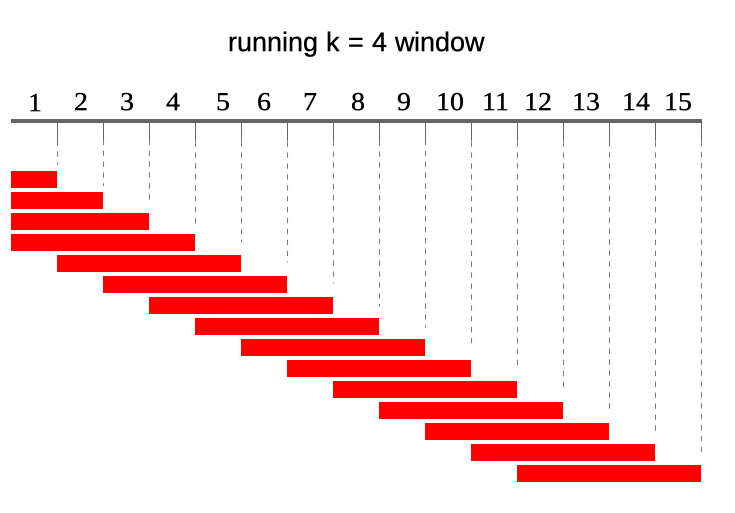
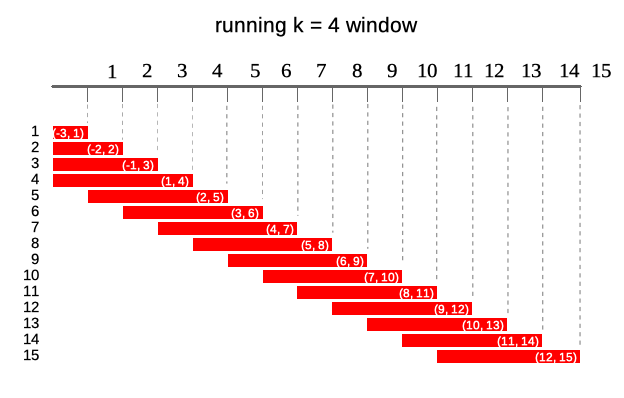
Deploy gogonzo/runner to github.com/gogonzo/runner.git:gh-pages

Changed region(s): [[0.0, 0.3015, 0.9744, 0.9648], [0.0, 0.1508, 0.9744, 0.3015], [0.3045, 0.0302, 0.6699, 0.1206]]

diff --git a/index.html b/index.html
@@ -33,7 +33,7 @@
       </button>
       <span class="navbar-brand">
         <a class="navbar-link" href="index.html">runner</a>
-        <span class="version label label-default" data-toggle="tooltip" data-placement="bottom" title="Released version">0.2.9000</span>
+        <span class="version label label-default" data-toggle="tooltip" data-placement="bottom" title="Released version">0.2.3</span>
       </span>
     </div>
 
@@ -83,15 +83,15 @@
       </header><div class="row">
   <div class="contents col-md-9">
 
-<div id="runner-a-r-package-for-running-operations-" class="section level1">
+<div id="runner-an-r-package-for-running-operations-" class="section level1">
 <div class="page-header"><h1 class="hasAnchor">
-<a href="#runner-a-r-package-for-running-operations-" class="anchor"></a><code>runner</code> a R package for running operations.</h1></div>
+<a href="#runner-an-r-package-for-running-operations-" class="anchor"></a><code>runner</code> an R package for running operations.</h1></div>
 </div>
 <div id="section" class="section level1">
 <h1 class="hasAnchor">
 <a href="#section" class="anchor"></a><img src="reference/figures/hexlogo.png" align="right">
 </h1>
-<p><a href="https://CRAN.R-project.org/package=runner"><img src="https://cranlogs.r-pkg.org/badges/runner" alt="Cran badge"></a> <a href="https://travis-ci.org/gogonzo/runner"><img src="https://travis-ci.org/gogonzo/runner.svg?branch=master" alt="Travis-CI Build Status"></a> <a href="https://ci.appveyor.com/project/gogonzo/runner"><img src="https://ci.appveyor.com/api/projects/status/github/gogonzo/runner?branch=master&amp;svg=true" alt="AppVeyor Build Status"></a> <img src="https://codecov.io/gh/gogonzo/runner/branch/master/graph/badge.svg" alt="Coverage status"></p>
+
 <div id="about" class="section level2">
 <h2 class="hasAnchor">
 <a href="#about" class="anchor"></a>About</h2>
@@ -107,7 +107,7 @@
 <div id="using-runner" class="section level2">
 <h2 class="hasAnchor">
 <a href="#using-runner" class="anchor"></a>Using runner</h2>
-<p><code>runner</code> package provides functions applied on running windows. Diagram below illustrates what running windows are - in this case running <code>k = 4</code> windows. For each of 15 elements of a vector each window contains current 4 elements (exception are first k - 1 elements where window is not complete).</p>
+<p><code>runner</code> package provides functions applied on running windows. Diagram below illustrates what running windows are - in this case running <code>k = 4</code> windows. For each of 15 elements of a vector each window contains current 4 elements.</p>
 <p><img src="reference/figures/running_windows_explain.png"></p>
 <p>Using <code>runner</code> one can apply any R function <code>f</code> in running window of length defined by <code>k</code>, window <code>lag</code>, observation indexes <code>idx</code>.</p>
 <p><img src="reference/figures/using_runner.png"></p>
@@ -126,8 +126,13 @@
 <div id="windows-depending-on-date" class="section level3">
 <h3 class="hasAnchor">
 <a href="#windows-depending-on-date" class="anchor"></a>Windows depending on date</h3>
-<p>Sometimes data points in dataset are not equally spaced (missing weeekends, holidays, other missings) and thus window size should vary to keep expected time frame. If one specifies <code>idx</code> argument, than running functions are applied on windows depending on date. <code>idx</code> should be the same length as <code>x</code> of class <code>Date</code> or <code>integer</code>. Including <code>idx</code> can be combined with varying window size, than k will denote number of periods in window different for each data point. Example below illustrates window of size <code>k = 4</code> lagged by <code>lag = 2</code> periods for 10’th element of vector <code>x</code>. This (10th) element has <code>idx = 13</code> which means that window ranges <code>[8, 11]</code> - although <code>k = 4</code> only two elements of <code>x</code> are within this window.</p>
-<p><img src="reference/figures/custom_idx_k_lag.png"></p>
+<p>Sometimes data points in dataset are not equally spaced (missing weeekends, holidays, other missings) and thus window size should vary to keep expected time frame. If one specifies <code>idx</code> argument, than running functions are applied on windows depending on date. <code>idx</code> should be the same length as <code>x</code> of class <code>Date</code> or <code>integer</code>. Including <code>idx</code> can be combined with varying window size, than k will denote number of periods in window different for each data point. Example below illustrates window of size <code>k = 5</code> lagged by <code>lag = 2</code>. In parentheses ranges for each window.</p>
+<p><img src="reference/figures/running_date_windows_explain.png"></p>
+</div>
+<div id="na-padding" class="section level3">
+<h3 class="hasAnchor">
+<a href="#na-padding" class="anchor"></a><code>NA</code> padding</h3>
+<p>Using <code>runner</code> one can also specify <code>na_pad = TRUE</code> which would return <code>NA</code> for any window which is partialy out of range - meaning that there is no sufficient number of observations to fill the window. By default <code>na_pad = FALSE</code>, which means that incomplete windows are calculated anyway. <code>na_pad</code> is applied on normal cumulative windows and on windows depending on date.</p>
 </div>
 <div id="build-in-functions" class="section level3">
 <h3 class="hasAnchor">
@@ -149,10 +154,10 @@
 <a class="sourceLine" id="cb2-2" data-line-number="2">x &lt;-<span class="st"> </span><span class="kw"><a href="https://rdrr.io/r/stats/Normal.html">rnorm</a></span>(<span class="dv">20</span>)</a>
 <a class="sourceLine" id="cb2-3" data-line-number="3">date &lt;-<span class="st"> </span><span class="kw"><a href="https://rdrr.io/r/base/seq.Date.html">seq.Date</a></span>(<span class="kw"><a href="https://rdrr.io/r/base/Sys.time.html">Sys.Date</a></span>(), <span class="kw"><a href="https://rdrr.io/r/base/Sys.time.html">Sys.Date</a></span>() <span class="op">+</span><span class="st"> </span><span class="dv">19</span>, <span class="dt">by =</span> <span class="st">"1 day"</span>)</a>
 <a class="sourceLine" id="cb2-4" data-line-number="4"><span class="kw"><a href="reference/runner.html">runner</a></span>(x, <span class="dt">k =</span> <span class="dv">14</span>, <span class="dt">idx =</span> date, <span class="dt">f =</span> <span class="cf">function</span>(xi) <span class="kw"><a href="https://rdrr.io/r/base/mean.html">mean</a></span>(xi, <span class="dt">na.rm =</span> <span class="ot">TRUE</span>, <span class="dt">trim =</span> <span class="fl">0.05</span>))</a></code></pre></div>
-<div class="sourceCode" id="cb3"><pre class="sourceCode R"><code class="sourceCode r"><a class="sourceLine" id="cb3-1" data-line-number="1">##  [1] -0.1293755 -0.4648944 -0.3256400 -0.2073942 -0.5131102 -0.6672929</a>
-<a class="sourceLine" id="cb3-2" data-line-number="2">##  [7] -0.7305670 -0.5624326 -0.5527821 -0.5268286 -0.5222003 -0.6448387</a>
-<a class="sourceLine" id="cb3-3" data-line-number="3">## [13] -0.6788169 -0.6780393 -0.6077265 -0.6590736 -0.6990439 -0.7927854</a>
-<a class="sourceLine" id="cb3-4" data-line-number="4">## [19] -0.5330058 -0.5263309</a></code></pre></div>
+<div class="sourceCode" id="cb3"><pre class="sourceCode R"><code class="sourceCode r"><a class="sourceLine" id="cb3-1" data-line-number="1">##  [1] -0.23324284  0.55241525  0.78370705  0.35494726  0.19641839</a>
+<a class="sourceLine" id="cb3-2" data-line-number="2">##  [6]  0.33355874  0.06932771  0.10942293 -0.06643426 -0.19545265</a>
+<a class="sourceLine" id="cb3-3" data-line-number="3">## [11] -0.24160405 -0.19285332 -0.31204085 -0.30473856 -0.29599952</a>
+<a class="sourceLine" id="cb3-4" data-line-number="4">## [16] -0.42316415 -0.48083248 -0.47543853 -0.32983559 -0.29291759</a></code></pre></div>
 </div>
 </div>
 
@@ -181,7 +186,16 @@
 </ul>
 </div>
 
-  </div>
+  <div class="dev-status">
+<h2>Dev status</h2>
+<ul class="list-unstyled">
+<li><a href="https://CRAN.R-project.org/package=runner"><img src="https://cranlogs.r-pkg.org/badges/runner" alt="Cran badge"></a></li>
+<li><a href="https://travis-ci.org/gogonzo/runner"><img src="https://travis-ci.org/gogonzo/runner.svg?branch=master" alt="Travis-CI Build Status"></a></li>
+<li><a href="https://ci.appveyor.com/project/gogonzo/runner"><img src="https://ci.appveyor.com/api/projects/status/github/gogonzo/runner?branch=master&amp;svg=true" alt="AppVeyor Build Status"></a></li>
+<li><a href="https://codecov.io/gh/gogonzo/runner/branch/master"><img src="https://codecov.io/gh/gogonzo/runner/branch/master/graph/badge.svg" alt="Coverage status"></a></li>
+</ul>
+</div>
+</div>
 </div>
 
 

diff --git a/articles/the_runner_package.html b/articles/the_runner_package.html
@@ -31,7 +31,7 @@
       </button>
       <span class="navbar-brand">
         <a class="navbar-link" href="../index.html">runner</a>
-        <span class="version label label-default" data-toggle="tooltip" data-placement="bottom" title="Released version">0.2.9000</span>
+        <span class="version label label-default" data-toggle="tooltip" data-placement="bottom" title="Released version">0.2.3</span>
       </span>
     </div>
 
@@ -84,7 +84,7 @@
       <h1>The runner package</h1>
                         <h4 class="author">Dawid Kałędkowski</h4>
             
-            <h4 class="date">2019-10-26</h4>
+            <h4 class="date">2019-10-27</h4>
       
       
       <div class="hidden name"><code>the_runner_package.Rmd</code></div>
@@ -108,7 +108,7 @@
 <div id="running-windows" class="section level2">
 <h2 class="hasAnchor">
 <a href="#running-windows" class="anchor"></a>Running windows</h2>
-<p><code>runner</code> functionality revolves around time series and running windows. Diagram below illustrates what running windows are - in this case running <code>k = 4</code> windows. For each of 15 elements of a vector each window contains current 4 elements (exception are first k - 1 elements where window is not complete).</p>
+<p><code>runner</code> functionality revolves around time series and running windows. Diagram below illustrates what running windows are - in this case running <code>k = 4</code> windows. For each of 15 elements of a vector each window contains current 4 elements.</p>
 <p><img src="images/running_windows_explain.png"></p>
 <p>Windows are defined by several parameters, like size, lag and indexes of observation (or date).</p>
 <div id="window-size" class="section level3">
@@ -125,8 +125,13 @@
 <div id="windows-depending-on-date" class="section level3">
 <h3 class="hasAnchor">
 <a href="#windows-depending-on-date" class="anchor"></a>Windows depending on date</h3>
-<p>Sometimes data points in dataset are not equally spaced (missing weeekends, holidays, other missings) and thus window size should vary to keep expected time frame. If one specifies <code>idx</code> argument, than running functions are applied on windows depending on time. <code>idx</code> should be the same length as <code>x</code> of class <code>integer</code> (or <code>Date</code>, <code>POSIXlt</code> etc.). Including <code>idx</code> can be combined with varying window size, than k will denote number of periods in window different for each data point. Example below illustrates window of size <code>k = 4</code> lagged by <code>lag = 2</code> periods for 10’th element of vector <code>x</code>. This (10th) element has <code>idx = 13</code> which means that window ranges <code>[8, 11]</code> - although <code>k = 4</code> only two elements of <code>x</code> are within this window.</p>
-<p><img src="images/custom_idx_k_lag.png"></p>
+<p>Sometimes data points in dataset are not equally spaced (missing weeekends, holidays, other missings) and thus window size should vary to keep expected time frame. If one specifies <code>idx</code> argument, than running functions are applied on windows depending on date. <code>idx</code> should be the same length as <code>x</code> of class <code>Date</code> or <code>integer</code>. Including <code>idx</code> can be combined with varying window size, than k will denote number of periods in window different for each data point. Example below illustrates window of size <code>k = 5</code> lagged by <code>lag = 2</code>. In parentheses ranges for each window.</p>
+<p><img src="images/running_date_windows_explain.png"></p>
+</div>
+<div id="na-padding" class="section level3">
+<h3 class="hasAnchor">
+<a href="#na-padding" class="anchor"></a><code>NA</code> padding</h3>
+<p>Using <code>runner</code> one can also specify <code>na_pad = TRUE</code> which would return <code>NA</code> for any window which is partialy out of range - meaning that there is no sufficient number of observations to fill the window. By default <code>na_pad = FALSE</code>, which means that incomplete windows are calculated anyway. <code>na_pad</code> is applied on normal cumulative windows and on windows depending on date.</p>
 </div>
 </div>
 <div id="using-package" class="section level2">
@@ -158,21 +163,21 @@
 <a class="sourceLine" id="cb2-17" data-line-number="17"></a>
 <a class="sourceLine" id="cb2-18" data-line-number="18"><span class="kw"><a href="https://rdrr.io/r/base/data.frame.html">data.frame</a></span>(x, k, idx, simple_mean, trimmed_mean, varying_window, date_windows)</a></code></pre></div>
 <pre><code>##             x  k idx simple_mean trimmed_mean varying_window date_windows
-## 1  0.50850136  9   2   0.5085014    0.5085014      0.5085014   0.50850136
-## 2  0.07898978  3   3   0.2937456    0.2937456      0.2937456   0.29374557
-## 3  0.24591241  5   4   0.2778012    0.2778012      0.2778012   0.27780118
-## 4  0.78415913  9   6   0.4043907    0.4043907      0.4043907   0.40439067
-## 5  0.82191175 13  10   0.4827433    0.4827433      0.4878949   0.48789489
-## 6  0.37952509  6  13   0.5578771    0.5578771      0.4698333   0.60071842
-## 7  0.94129121  7  16   0.7317218    0.7317218      0.5371844   0.71424268
-## 8  0.65338567  7  19   0.6990284    0.6990284      0.5578821   0.65806732
-## 9  0.86115377  5  21   0.7088389    0.7088389      0.7314535   0.75726972
-## 10 0.47194482 10  22   0.7319439    0.7319439      0.5746775   0.66146011
-## 11 0.16617478  9  23   0.5381648    0.5381648      0.5917176   0.61879005
-## 12 0.30488066  7  24   0.4510385    0.4510385      0.5397651   0.49150794
-## 13 0.15191617 10  28   0.2737291    0.2737291      0.5536343   0.43490931
-## 14 0.01547989  7  31   0.1596129    0.1596129      0.3749908   0.08369803
-## 15 0.67604393  6  33   0.2870802    0.2870802      0.2977400   0.28114666</code></pre>
+## 1  0.58607318 12   2   0.5860732    0.5860732      0.5860732    0.5860732
+## 2  0.91838509  6   6   0.7522291    0.7522291      0.7522291    0.7522291
+## 3  0.28749643 14   8   0.5973182    0.5973182      0.5973182    0.5973182
+## 4  0.09956624  5  11   0.4728802    0.4728802      0.4728802    0.1935313
+## 5  0.91877942  7  14   0.5560568    0.5560568      0.5620601    0.4352807
+## 6  0.30642436 11  18   0.4030666    0.4030666      0.5194541    0.4030666
+## 7  0.15939541  7  20   0.3710414    0.3710414      0.4680172    0.4615331
+## 8  0.05499683  4  21   0.3598990    0.3598990      0.3598990    0.1736055
+## 9  0.14738170 11  23   0.1670496    0.1670496      0.3864999    0.3173955
+## 10 0.82293662  8  27   0.2961776    0.2961776      0.3496221    0.2961776
+## 11 0.07655340  3  31   0.2754671    0.2754671      0.3489572    0.0765534
+## 12 0.76239631  2  35   0.4523170    0.4523170      0.4194749    0.7623963
+## 13 0.84280056 12  38   0.6261717    0.6261717      0.4497594    0.6261717
+## 14 0.51724588  7  41   0.5497490    0.5497490      0.4606159    0.7074809
+## 15 0.26698703  4  44   0.5973574    0.5973574      0.5973574    0.3921165</code></pre>
 </div>
 <div id="builtin-functions" class="section level3">
 <h3 class="hasAnchor">
@@ -198,6 +203,7 @@
 <li><a href="#window-size">Window size</a></li>
       <li><a href="#window-lag">Window lag</a></li>
       <li><a href="#windows-depending-on-date">Windows depending on date</a></li>
+      <li><a href="#na-padding"><code>NA</code> padding</a></li>
       </ul>
 </li>
       <li>

diff --git a/articles/runner_examples.html b/articles/runner_examples.html
@@ -31,7 +31,7 @@
       </button>
       <span class="navbar-brand">
         <a class="navbar-link" href="../index.html">runner</a>
-        <span class="version label label-default" data-toggle="tooltip" data-placement="bottom" title="Released version">0.2.9000</span>
+        <span class="version label label-default" data-toggle="tooltip" data-placement="bottom" title="Released version">0.2.3</span>
       </span>
     </div>
 
@@ -91,7 +91,7 @@
 
     
     
-<p>The most fundamental function in <code>runner</code> package is <code>runner</code>. With <code><a href="../reference/runner.html">runner::runner</a></code> one can apply any R function on running windows. This tutorial presents set of examples expaining how to tackle some tasks. Some of the examples are referenced to original topic on <a href="www.stackoverflow.com">stackoverflow</a>.</p>
+<p>The most fundamental function in <code>runner</code> package is <code>runner</code>. With <code><a href="../reference/runner.html">runner::runner</a></code> one can apply any R function on running windows. This tutorial presents set of examples expaining how to tackle some tasks. Some of the examples are referenced to original topic on <a href="https://stackoverflow.com">stackoverflow</a>.</p>
 <p><img src="images/using_runner.png"></p>
 <div id="number-of-unique-elements-in-7-days-window" class="section level3">
 <h3 class="hasAnchor">
@@ -101,7 +101,7 @@
 <a class="sourceLine" id="cb1-3" data-line-number="3">date &lt;-<span class="st"> </span><span class="kw"><a href="https://rdrr.io/r/base/as.Date.html">as.Date</a></span>(<span class="kw"><a href="https://rdrr.io/r/base/cumsum.html">cumsum</a></span>(<span class="kw"><a href="https://rdrr.io/r/base/sample.html">sample</a></span>(<span class="dv">1</span><span class="op">:</span><span class="dv">5</span>, <span class="dv">20</span>, <span class="dt">replace =</span> <span class="ot">TRUE</span>)), <span class="dt">origin =</span> <span class="kw"><a href="https://rdrr.io/r/base/Sys.time.html">Sys.Date</a></span>()) <span class="co"># unequaly spaced time series</span></a>
 <a class="sourceLine" id="cb1-4" data-line-number="4"></a>
 <a class="sourceLine" id="cb1-5" data-line-number="5"><span class="kw"><a href="../reference/runner.html">runner</a></span>(x, <span class="dt">k =</span> <span class="dv">7</span>, <span class="dt">idx =</span> date, <span class="dt">f =</span> <span class="cf">function</span>(x) <span class="kw"><a href="https://rdrr.io/r/base/length.html">length</a></span>(<span class="kw"><a href="https://rdrr.io/r/base/unique.html">unique</a></span>(x)))</a></code></pre></div>
-<pre><code>##  [1] 1 2 3 3 4 2 2 2 2 3 3 3 2 2 2 2 3 2 2 2</code></pre>
+<pre><code>##  [1] 1 2 3 3 2 3 3 2 3 3 3 2 2 2 2 1 1 2 3 3</code></pre>
 </div>
 <div id="weekly-trimmed-mean" class="section level3">
 <h3 class="hasAnchor">
@@ -110,10 +110,10 @@
 <a class="sourceLine" id="cb3-2" data-line-number="2">date &lt;-<span class="st"> </span><span class="kw"><a href="https://rdrr.io/r/base/as.Date.html">as.Date</a></span>(<span class="kw"><a href="https://rdrr.io/r/base/cumsum.html">cumsum</a></span>(<span class="kw"><a href="https://rdrr.io/r/base/sample.html">sample</a></span>(<span class="dv">1</span><span class="op">:</span><span class="dv">5</span>, <span class="dv">20</span>, <span class="dt">replace =</span> <span class="ot">TRUE</span>)), <span class="dt">origin =</span> <span class="kw"><a href="https://rdrr.io/r/base/Sys.time.html">Sys.Date</a></span>()) <span class="co"># unequaly spaced time series</span></a>
 <a class="sourceLine" id="cb3-3" data-line-number="3"></a>
 <a class="sourceLine" id="cb3-4" data-line-number="4"><span class="kw"><a href="../reference/runner.html">runner</a></span>(x, <span class="dt">k =</span> <span class="dv">7</span>, <span class="dt">idx =</span> date, <span class="dt">f =</span> <span class="cf">function</span>(x) <span class="kw"><a href="https://rdrr.io/r/base/mean.html">mean</a></span>(x, <span class="dt">trim =</span> <span class="fl">0.05</span>))</a></code></pre></div>
-<pre><code>##  [1] -1.1922683 -1.0993301 -1.4579908 -1.9042071 -1.8251200 -2.2202843
-##  [7] -2.3923526 -1.9978556 -1.8553081 -2.1923669 -2.3961427 -2.3335726
-## [13] -2.1259007 -1.7586986 -1.5941409 -1.2345040 -0.1792077  0.6771855
-## [19] -0.1011430  0.1636548</code></pre>
+<pre><code>##  [1] -0.8542272 -0.9216299 -1.0597642 -0.7180208 -0.4464518 -0.2187879
+##  [7]  0.1981450 -0.2438836 -0.7840016 -0.9955480 -1.0714486 -0.9627428
+## [13] -0.4571086  0.2095697  0.7723055  0.9582364  1.4026967  2.6181370
+## [19]  4.1042659  3.7538976</code></pre>
 </div>
 <div id="weeks-regression" class="section level3">
 <h3 class="hasAnchor">

diff --git a/news/index.html b/news/index.html
@@ -67,7 +67,7 @@
       </button>
       <span class="navbar-brand">
         <a class="navbar-link" href="../index.html">runner</a>
-        <span class="version label label-default" data-toggle="tooltip" data-placement="bottom" title="Released version">0.2.9000</span>
+        <span class="version label label-default" data-toggle="tooltip" data-placement="bottom" title="Released version">0.2.3</span>
       </span>
     </div>
 
@@ -125,7 +125,7 @@
 
     <div id="runner-0-2-3" class="section level1">
 <h1 class="page-header">
-<a href="#runner-0-2-3" class="anchor"></a>runner 0.2.3<small> Unreleased </small>
+<a href="#runner-0-2-3" class="anchor"></a>runner 0.2.3<small> 2019-10-27 </small>
 </h1>
 <ul>
 <li>allow negative lag</li>

diff --git a/reference/length_run.html b/reference/length_run.html
@@ -71,7 +71,7 @@ then the result is number of observations within k days window." />
       </button>
       <span class="navbar-brand">
         <a class="navbar-link" href="../index.html">runner</a>
-        <span class="version label label-default" data-toggle="tooltip" data-placement="bottom" title="Released version">0.2.9000</span>
+        <span class="version label label-default" data-toggle="tooltip" data-placement="bottom" title="Released version">0.2.3</span>
       </span>
     </div>
 

diff --git a/articles/built-in_functions.html b/articles/built-in_functions.html
@@ -31,7 +31,7 @@
       </button>
       <span class="navbar-brand">
         <a class="navbar-link" href="../index.html">runner</a>
-        <span class="version label label-default" data-toggle="tooltip" data-placement="bottom" title="Released version">0.2.9000</span>
+        <span class="version label label-default" data-toggle="tooltip" data-placement="bottom" title="Released version">0.2.3</span>
       </span>
     </div>
 

diff --git a/articles/index.html b/articles/index.html
@@ -67,7 +67,7 @@
       </button>
       <span class="navbar-brand">
         <a class="navbar-link" href="../index.html">runner</a>
-        <span class="version label label-default" data-toggle="tooltip" data-placement="bottom" title="Released version">0.2.9000</span>
+        <span class="version label label-default" data-toggle="tooltip" data-placement="bottom" title="Released version">0.2.3</span>
       </span>
     </div>
 

diff --git a/reference/fill_run.html b/reference/fill_run.html
@@ -69,7 +69,7 @@
       </button>
       <span class="navbar-brand">
         <a class="navbar-link" href="../index.html">runner</a>
-        <span class="version label label-default" data-toggle="tooltip" data-placement="bottom" title="Released version">0.2.9000</span>
+        <span class="version label label-default" data-toggle="tooltip" data-placement="bottom" title="Released version">0.2.3</span>
       </span>
     </div>
 

diff --git a/reference/index.html b/reference/index.html
@@ -67,7 +67,7 @@
       </button>
       <span class="navbar-brand">
         <a class="navbar-link" href="../index.html">runner</a>
-        <span class="version label label-default" data-toggle="tooltip" data-placement="bottom" title="Released version">0.2.9000</span>
+        <span class="version label label-default" data-toggle="tooltip" data-placement="bottom" title="Released version">0.2.3</span>
       </span>
     </div>
 

diff --git a/reference/lag_run.html b/reference/lag_run.html
@@ -69,7 +69,7 @@
       </button>
       <span class="navbar-brand">
         <a class="navbar-link" href="../index.html">runner</a>
-        <span class="version label label-default" data-toggle="tooltip" data-placement="bottom" title="Released version">0.2.9000</span>
+        <span class="version label label-default" data-toggle="tooltip" data-placement="bottom" title="Released version">0.2.3</span>
       </span>
     </div>
 

diff --git a/reference/max_run.html b/reference/max_run.html
@@ -69,7 +69,7 @@
       </button>
       <span class="navbar-brand">
         <a class="navbar-link" href="../index.html">runner</a>
-        <span class="version label label-default" data-toggle="tooltip" data-placement="bottom" title="Released version">0.2.9000</span>
+        <span class="version label label-default" data-toggle="tooltip" data-placement="bottom" title="Released version">0.2.3</span>
       </span>
     </div>
 

diff --git a/reference/mean_run.html b/reference/mean_run.html
@@ -69,7 +69,7 @@
       </button>
       <span class="navbar-brand">
         <a class="navbar-link" href="../index.html">runner</a>
-        <span class="version label label-default" data-toggle="tooltip" data-placement="bottom" title="Released version">0.2.9000</span>
+        <span class="version label label-default" data-toggle="tooltip" data-placement="bottom" title="Released version">0.2.3</span>
       </span>
     </div>
 
